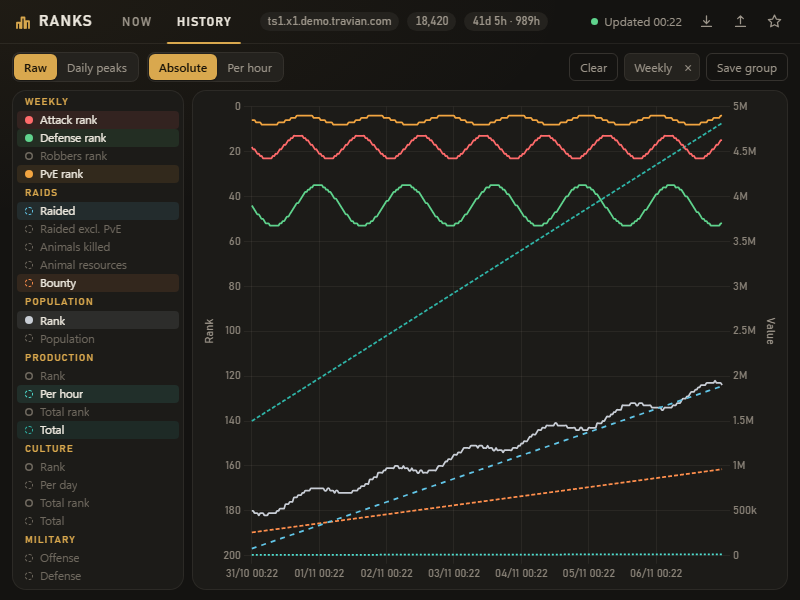
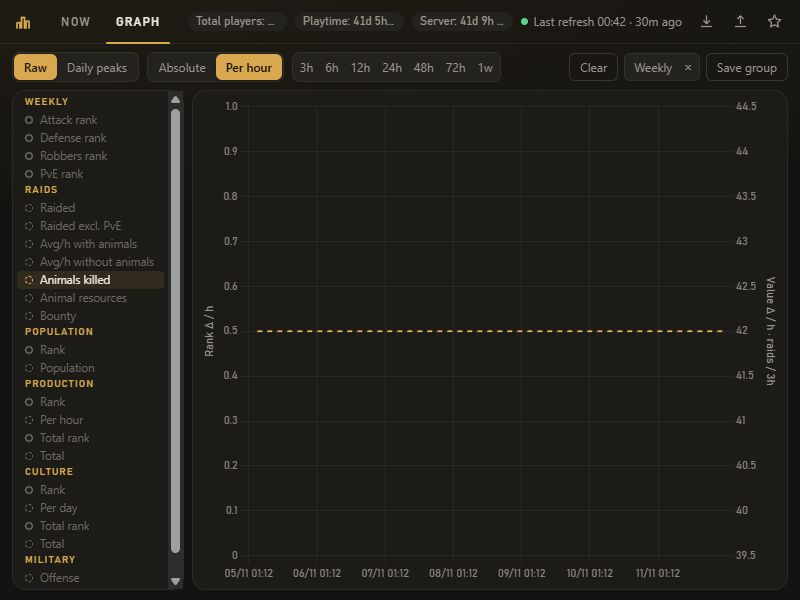
Fix RankTracker graph clipping and sync version 5.0.33

diff --git a/projects/travian-extensions/extensions/TravianRankTracker/popup/metrics.js b/projects/travian-extensions/extensions/TravianRankTracker/popup/metrics.js
@@ -19,8 +19,6 @@ const DATASETS_CONFIG = [
 	{ key: "valPve", label: "Animals Killed", color: "#e8b45c", dash: [5, 5], axis: "y1", defHidden: true, group: "raids" },
 	{ key: "valPveResources", label: "Res from Animal Kills", color: "#ffd88a", dash: [5, 5], axis: "y1", defHidden: true, group: "raids" },
 	{ key: "valRobExcludingPve", label: "Res Raided (excl. PvE)", color: "#3fa7c9", dash: [5, 5], axis: "y1", defHidden: true, group: "raids" },
-	{ key: "valRaidHourly", label: "Avg Raiding / Hour (with animals)", color: "#62c6e8", dash: [2, 2], axis: "y1", defHidden: true, perHour: true, group: "raids" },
-	{ key: "valRaidHourlyExcludingPve", label: "Avg Raiding / Hour (without animals)", color: "#3fa7c9", dash: [4, 2], axis: "y1", defHidden: true, perHour: true, group: "raids" },
 	{ key: "rankPve", label: "PvE of the week", color: "#f2a541", dash: null, axis: "y", defHidden: false, group: "weekly" },
 	{ key: "rankPop", label: "Pop Rank", color: "#c9ced6", dash: null, axis: "y", defHidden: false, group: "population" },
 	{ key: "valPop", label: "Population", color: "#f1efe9", dash: [2, 2], axis: "y1", defHidden: true, group: "population" },
@@ -38,7 +36,7 @@ const DATASETS_CONFIG = [
 /** Picker sections in display order; `keys` lists DATASETS_CONFIG keys. */
 const METRIC_GROUPS = [
 	{ id: "weekly", title: "Weekly", keys: ["rankPvp", "rankDefTop", "rankRob", "rankPve"] },
-	{ id: "raids", title: "Raids", keys: ["valRob", "valRobExcludingPve", "valRaidHourly", "valRaidHourlyExcludingPve", "valPve", "valPveResources", "valBounty"] },
+	{ id: "raids", title: "Raids", keys: ["valRob", "valRobExcludingPve", "valPve", "valPveResources", "valBounty"] },
 	{ id: "population", title: "Population", keys: ["rankPop", "valPop"] },
 	{ id: "production", title: "Production", keys: ["rankProd", "valProd", "rankProdSoFar", "valProdSoFar"] },
 	{ id: "culture", title: "Culture", keys: ["rankCp", "cpProd", "rankCpSoFar", "valCpSoFar"] },
@@ -49,7 +47,6 @@ const METRIC_GROUPS = [
 const METRIC_SHORT_LABELS = {
 	rankPvp: "Attack rank", rankDefTop: "Defense rank", rankRob: "Robbers rank", rankPve: "PvE rank",
 	valRob: "Raided", valRobExcludingPve: "Raided excl. PvE", valPve: "Animals killed", valPveResources: "Animal resources", valBounty: "Bounty",
-	valRaidHourly: "Avg/h with animals", valRaidHourlyExcludingPve: "Avg/h without animals",
 	rankPop: "Rank", valPop: "Population",
 	rankProd: "Rank", valProd: "Per hour", rankProdSoFar: "Total rank", valProdSoFar: "Total",
 	rankCp: "Rank", cpProd: "Per day", rankCpSoFar: "Total rank", valCpSoFar: "Total",
@@ -317,6 +314,25 @@ function compareEdgeValues(values, i1, i2) {
 	let hi = i2;
 	while (hi >= i1 && !Number.isFinite(values[hi])) hi--;
 	return lo < hi ? { start: values[lo], end: values[hi] } : null;
+}
+
+/** Time-weighted mean of the plotted samples, bridging nulls like spanGaps. */
+function compareRangeAverage(values, timestamps, i1, i2) {
+	let previous = null;
+	let area = 0;
+	let duration = 0;
+	for (let i = i1; i <= i2; i++) {
+		if (!Number.isFinite(values[i]) || !Number.isFinite(timestamps?.[i])) continue;
+		if (previous != null) {
+			const elapsed = timestamps[i] - timestamps[previous];
+			if (elapsed > 0) {
+				area += (values[previous] + values[i]) / 2 * elapsed;
+				duration += elapsed;
+			}
+		}
+		previous = i;
+	}
+	return duration > 0 ? area / duration : null;
 }
 
 /** Neighbours on each side averaged when smoothing per-hour lines. */

diff --git a/projects/travian-extensions/extensions/TravianRankTracker/popup.css b/projects/travian-extensions/extensions/TravianRankTracker/popup.css
@@ -56,6 +56,7 @@ body {
 	margin: 0;
 	overflow: hidden;
 	display: grid;
+	grid-template-columns: minmax(0, 1fr);
 	grid-template-rows: auto minmax(0, 1fr);
 	background:
 		radial-gradient(120% 60% at 0% 0%, rgba(217, 168, 78, 0.06), transparent 60%),
@@ -209,7 +210,7 @@ svg {
 }
 
 /* ── Views ──────────────────────────────────────────────────────────── */
-.views { min-height: 0; position: relative; }
+.views { min-width: 0; min-height: 0; position: relative; }
 
 .view {
 	height: 100%;
@@ -442,7 +443,7 @@ td.delta { text-align: right; white-space: nowrap; font-family: var(--font-num);
 .state-msg[data-kind="error"] { color: var(--down); }
 
 /* ── History toolbar ────────────────────────────────────────────────── */
-.hist-toolbar { display: flex; align-items: center; gap: 8px; flex: none; }
+.hist-toolbar { display: flex; flex-wrap: wrap; align-items: center; gap: 8px; flex: none; }
 .toolbar-spacer { flex: 1; }
 
 .seg {
@@ -566,7 +567,8 @@ td.delta { text-align: right; white-space: nowrap; font-family: var(--font-num);
 	flex-direction: column;
 	justify-content: space-between;
 	min-height: 0;
-	overflow: hidden;
+	overflow-x: hidden;
+	overflow-y: auto;
 	padding: 4px;
 	border: 1px solid var(--line);
 	border-radius: var(--radius-lg);
@@ -686,6 +688,7 @@ td.delta { text-align: right; white-space: nowrap; font-family: var(--font-num);
 .cmp-item .swatch { width: 8px; height: 8px; }
 .cmp-label { overflow: hidden; text-overflow: ellipsis; white-space: nowrap; color: var(--muted); }
 .cmp-val { font: 600 12px/1 var(--font-num); font-variant-numeric: tabular-nums; }
+.cmp-average { grid-column: 2 / -1; color: var(--text); font: 11.5px/1.3 var(--font-num); font-variant-numeric: tabular-nums; }
 .cmp-rate { color: var(--faint); font: 10.5px/1 var(--font-num); font-variant-numeric: tabular-nums; }
 .cmp-empty { margin: 0; color: var(--faint); font-size: 11.5px; text-align: center; }
 

diff --git a/projects/travian-extensions/extensions/TravianRankTracker/popup/history-view.js b/projects/travian-extensions/extensions/TravianRankTracker/popup/history-view.js
@@ -61,7 +61,7 @@ function hvCloseCompare() {
 /* ── compare box ───────────────────────────────────────────────────────── */
 
 /**
- * Render the drag-selection comparison panel with deltas between two points.
+ * Render deltas and the average plotted value over the selected time range.
  */
 function hvUpdateCompareBox(chart, startIdx, endIdx, timestamps) {
 	const box = document.getElementById("compare-box");
@@ -73,7 +73,7 @@ function hvUpdateCompareBox(chart, startIdx, endIdx, timestamps) {
 
 	const i1 = Math.min(startIdx, endIdx);
 	const i2 = Math.max(startIdx, endIdx);
-	const timeDiffHours = timestamps?.[i1] && timestamps?.[i2]
+	const timeDiffHours = Number.isFinite(timestamps?.[i1]) && Number.isFinite(timestamps?.[i2])
 		? Math.abs(timestamps[i2] - timestamps[i1]) / 3_600_000 : 0;
 	const velocity = popupState.isVelocityMode;
 	const labels = chart.data.labels;
@@ -110,6 +110,13 @@ function hvUpdateCompareBox(chart, startIdx, endIdx, timestamps) {
 			rate = ds.rolling3h ? "/3h" : "/h";
 		}
 		item.append(swatch, h("span", "cmp-label", ds.label), val, h("span", "cmp-rate", rate));
+		const average = compareRangeAverage(ds.data, timestamps, i1, i2);
+		if (average != null) {
+			const unit = ds.perHour || (velocity && !ds.rolling3h) ? " /h" : ds.rolling3h ? " /3h" : "";
+			const avg = h("span", "cmp-average", `Avg ${fmtCompact(average)}${unit}`);
+			avg.title = `Time-weighted average: ${average.toLocaleString(undefined, { maximumFractionDigits: 2 })}${unit}`;
+			item.append(avg);
+		}
 		list.append(item);
 	});
 

diff --git a/projects/travian-extensions/extensions/TravianRankTracker/popup/now-view.js b/projects/travian-extensions/extensions/TravianRankTracker/popup/now-view.js
@@ -143,7 +143,7 @@ function incomeOf(snapshot, raidRate) {
 /** Collapsible rows under Prod / Hour: production plus raids, and raids alone. */
 function incomeParts(raidRate) {
 	return [
-		{ name: "With raiding", read: (s) => incomeOf(s, raidRate) },
+		{ name: "Fields + raiding", read: (s) => incomeOf(s, raidRate) },
 		{ name: "Raids", read: (s) => { const raid = raidRate(s); return Number.isFinite(raid) ? raid : null; } },
 	];
 }

diff --git a/projects/travian-extensions/extensions/TravianRankTracker/README.md b/projects/travian-extensions/extensions/TravianRankTracker/README.md
@@ -2,18 +2,23 @@
 
 Records player statistics and displays rankings, historical changes and comparison graphs.
 
-**Version 5.0.30 · JavaScript · Manifest V3**
+**Version 5.0.33 · JavaScript · Manifest V3**
 
 [Usage guide](../../docs/USAGE.md#rank-tracker) · [Installation](../../README.md#install-in-brave-chrome-or-edge) · [All extensions](../../README.md)
 
 Load this directory with **Load unpacked** in a desktop Chromium browser. No build step is required. Refresh the game page after installation or updates.
+
+## Graph layout
+
+Graph controls wrap within the popup so the full chart and right-hand axis stay visible, including when Reset zoom appears.
 
 ## Data behaviour
 
 - Weekly tables refresh when the popup opens; the Weekly header shows when they were observed. Background collection handles JSON-backed general statistics.
 - Changes and rates account for observed weekly resets; daily bounty resets are handled in History. Absolute charts retain the original period totals.
 - Average rank uses the seven General ranks (Population, Prod / Hour, Prod So Far, CP / Day, CP So Far, Offensive and Defensive Strength) plus weekly PvE and Robbers. Weekly Attack and Defense are excluded.
-- Graph → Raids includes **Avg/h with animals** and **Avg/h without animals**: trailing 3-hour gains divided by 3, with animals valued at 160 resources each. Both remain hourly averages in either graph mode; a full 3 hours of history is required.
+- Drag across the graph to compare two points and see the time-weighted average plotted value over that range. Averages keep the plotted units, including /3h for raid and PvE counters in Per hour mode.
+- Now → Prod / Hour includes **Fields + raiding**, combining field production and trailing 3-hour raid income per hour.
 - In Per hour mode, raid and PvE counters show the total gained in the trailing 3 hours.
 - Cached weekly readings are omitted from new history. Activity during missing observations or unobserved resets cannot be reconstructed.
 - Backup imports are validated before writing. Failed writes preserve existing data. Restore is available without a registered server.

diff --git a/projects/travian-extensions/README.md b/projects/travian-extensions/README.md
@@ -13,7 +13,7 @@ Eight standalone browser extensions for Travian: forecasting, statistics history
 | <a id="oasis-finder"></a>[Oasis Finder](extensions/OasisCalc/) | Oasis scoring and farm-list sorting | 70.4 |
 | <a id="travalarm"></a>[TravAlarm](extensions/travAlarm/) | Game timers, custom reminders and notifications | 3.41 |
 | <a id="travian-qol"></a>[Travian QoL](extensions/TravianQoL/) | Farm-list selection, reports and interface utilities | 1.3.1 |
-| <a id="rank-tracker"></a>[Rank Tracker](extensions/TravianRankTracker/) | Rankings, statistics history and comparison graphs | 5.0.29 |
+| <a id="rank-tracker"></a>[Rank Tracker](extensions/TravianRankTracker/) | Rankings, statistics history and comparison graphs | 5.0.33 |
 | <a id="next-settlement-calc"></a>[Next Settlement Calc](extensions/NextSettlementCalc/) | Culture-point forecasts and celebration planning | 2.6.5 |
 | <a id="npc-automerchant"></a>[NPC AutoMerchant](extensions/automerchant/) | Troop resource calculations and hero-transfer assistance | 3.1.3 |
 | <a id="night-mode"></a>[Night Mode](extensions/travian_night_mode/) | Persistent dark theme and button colours | 2.6.1 |

diff --git a/projects/travian-extensions/extensions/TravianRankTracker/CHANGELOG.md b/projects/travian-extensions/extensions/TravianRankTracker/CHANGELOG.md
@@ -1,5 +1,15 @@
 # Rank Tracker changelog
 
+## Rank Tracker 5.0.33 — 2026-11-12
+
+- Fix graph clipping: constrain the view to the popup width and wrap toolbar controls when needed.
+
+## Rank Tracker 5.0.33 — 2026-11-12
+
+- Drag comparisons show the time-weighted average plotted value across the selected range, alongside the change and rate.
+- Now: renamed "With raiding" to "Fields + raiding".
+- Removed the "Avg/h with animals" and "Avg/h without animals" graph metrics.
+
 ## Rank Tracker 5.0.32 — 2026-11-11
 
 - Status shows the refresh from before the popup opened, with the time since (for example `Last refresh 14:02 · 35m ago`).
